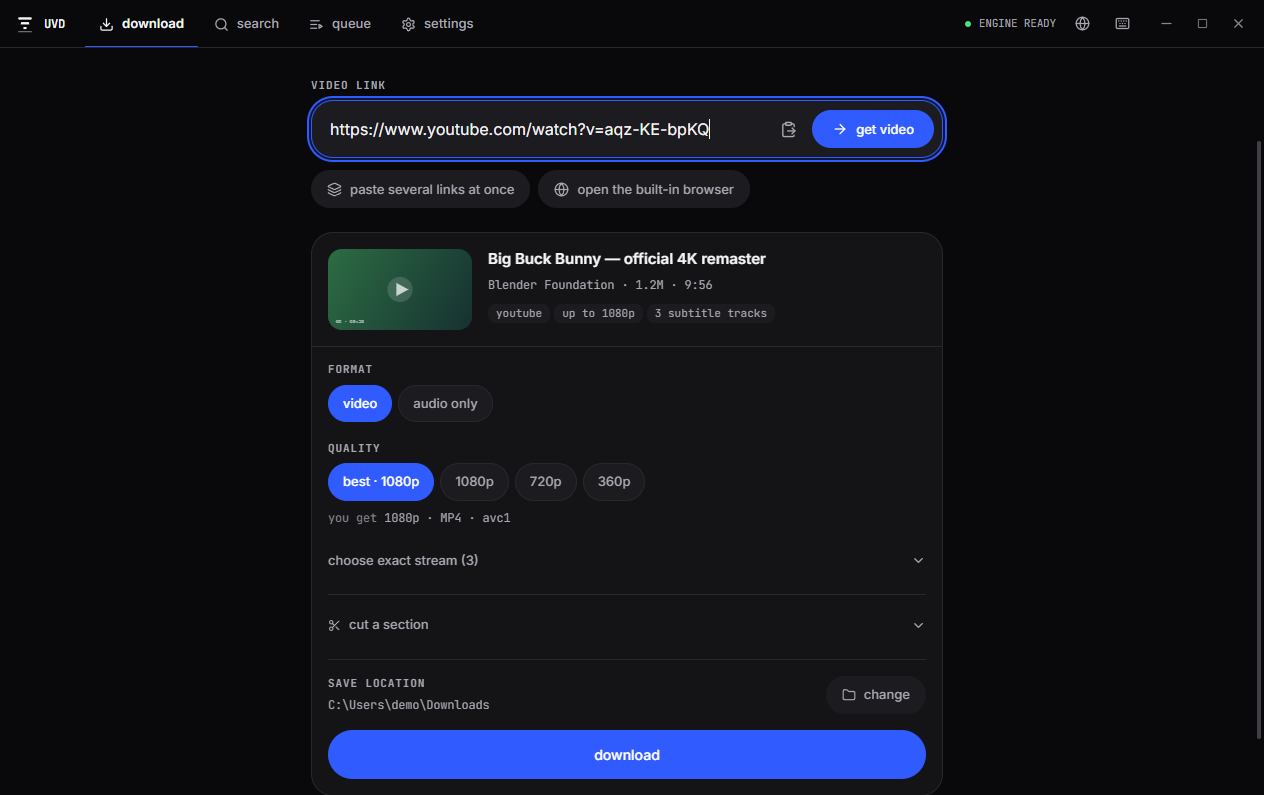
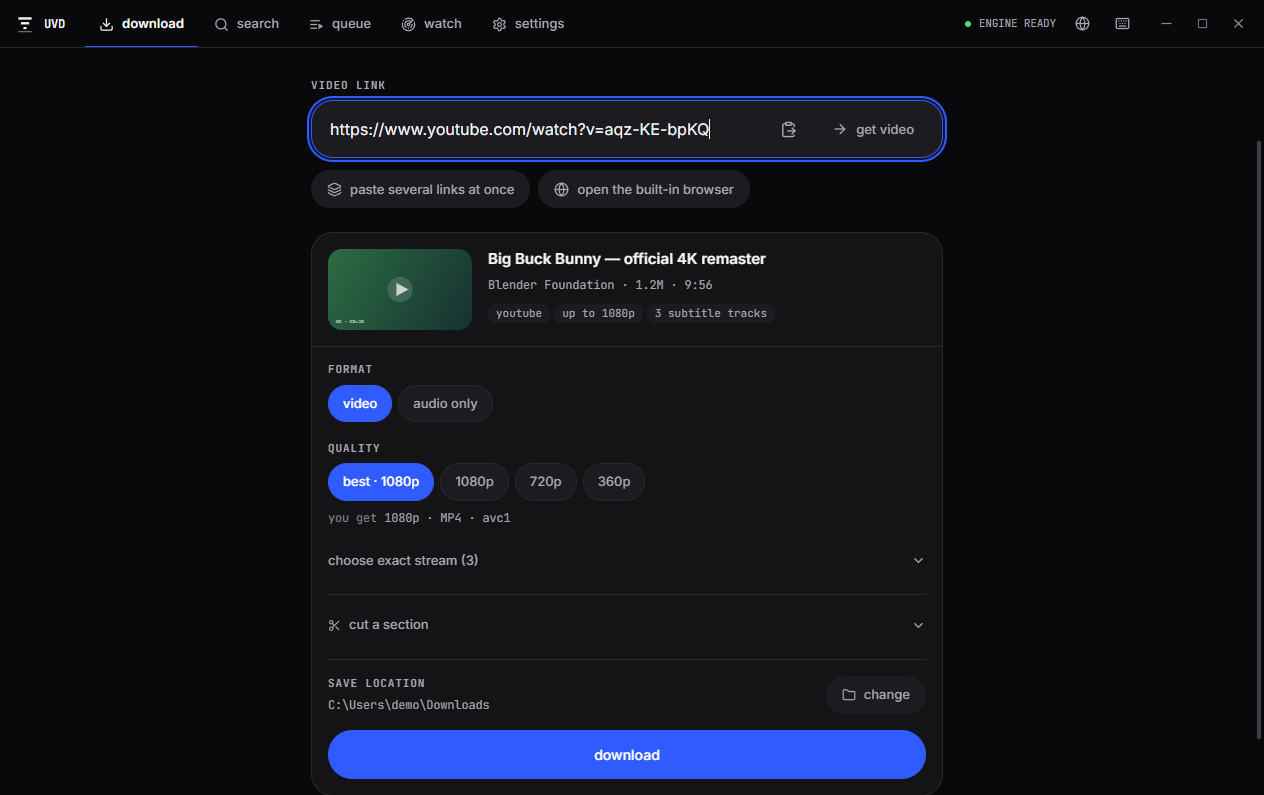
docs(readme): a moving tour of the app at the top, and the watch screen among the screenshots
The hero image is now a short GIF assembled from the real screenshots
(home, detected, queue, search, watch, settings, day theme). Every
screenshot is retaken from the current build, and the capture script
gains a watch shot with a sample series.

Changed region(s): [[0.6171, 0.1208, 0.7405, 0.2113], [0.4011, 0.0, 0.432, 0.0604], [0.3394, 0.0, 0.3703, 0.0604]]

diff --git a/README.md b/README.md
@@ -25,7 +25,7 @@
 Universal Video Downloader is a free desktop app for macOS, Windows and Linux that finds the video stream on almost any web page and downloads it. It is built on [yt-dlp](https://github.com/yt-dlp/yt-dlp) and ffmpeg, adds automatic stream detection for sites yt-dlp does not know, and wraps it all in an interface that tells you the truth about what it is doing — which quality you will actually get, how big the file is, and which step is running. English / Русский interface, no account, no telemetry.
 
 <div align="center">
-  <img src="docs/screenshots/detected.png" alt="A detected video, with the quality it will actually download" width="92%" />
+  <img src="docs/assets/preview.gif" alt="A tour of the app: home, a detected video, the queue, search, watching a series, settings and the day theme" width="92%" />
 </div>
 
 ## ✨ Features
@@ -57,6 +57,10 @@ Universal Video Downloader is a free desktop app for macOS, Windows and Linux th
   <tr>
     <td><img src="docs/screenshots/search.png" alt="Title search across services" /><p align="center"><b>Search</b> — by title, across services</p></td>
     <td><img src="docs/screenshots/settings.png" alt="Settings" /><p align="center"><b>Settings</b></p></td>
+  </tr>
+  <tr>
+    <td><img src="docs/screenshots/detected.png" alt="A detected video, with the quality it will actually download" /><p align="center"><b>Detected</b> — the quality you will actually get</p></td>
+    <td><img src="docs/screenshots/watch.png" alt="Watching a series" /><p align="center"><b>Watch</b> — every new episode downloaded, renamed, sent to a share</p></td>
   </tr>
   <tr>
     <td colspan="2"><img src="docs/screenshots/detected-day.png" alt="The same screen in the day theme" /><p align="center"><b>Day theme</b> — designed on its own, not an inverted copy of the night one</p></td>
